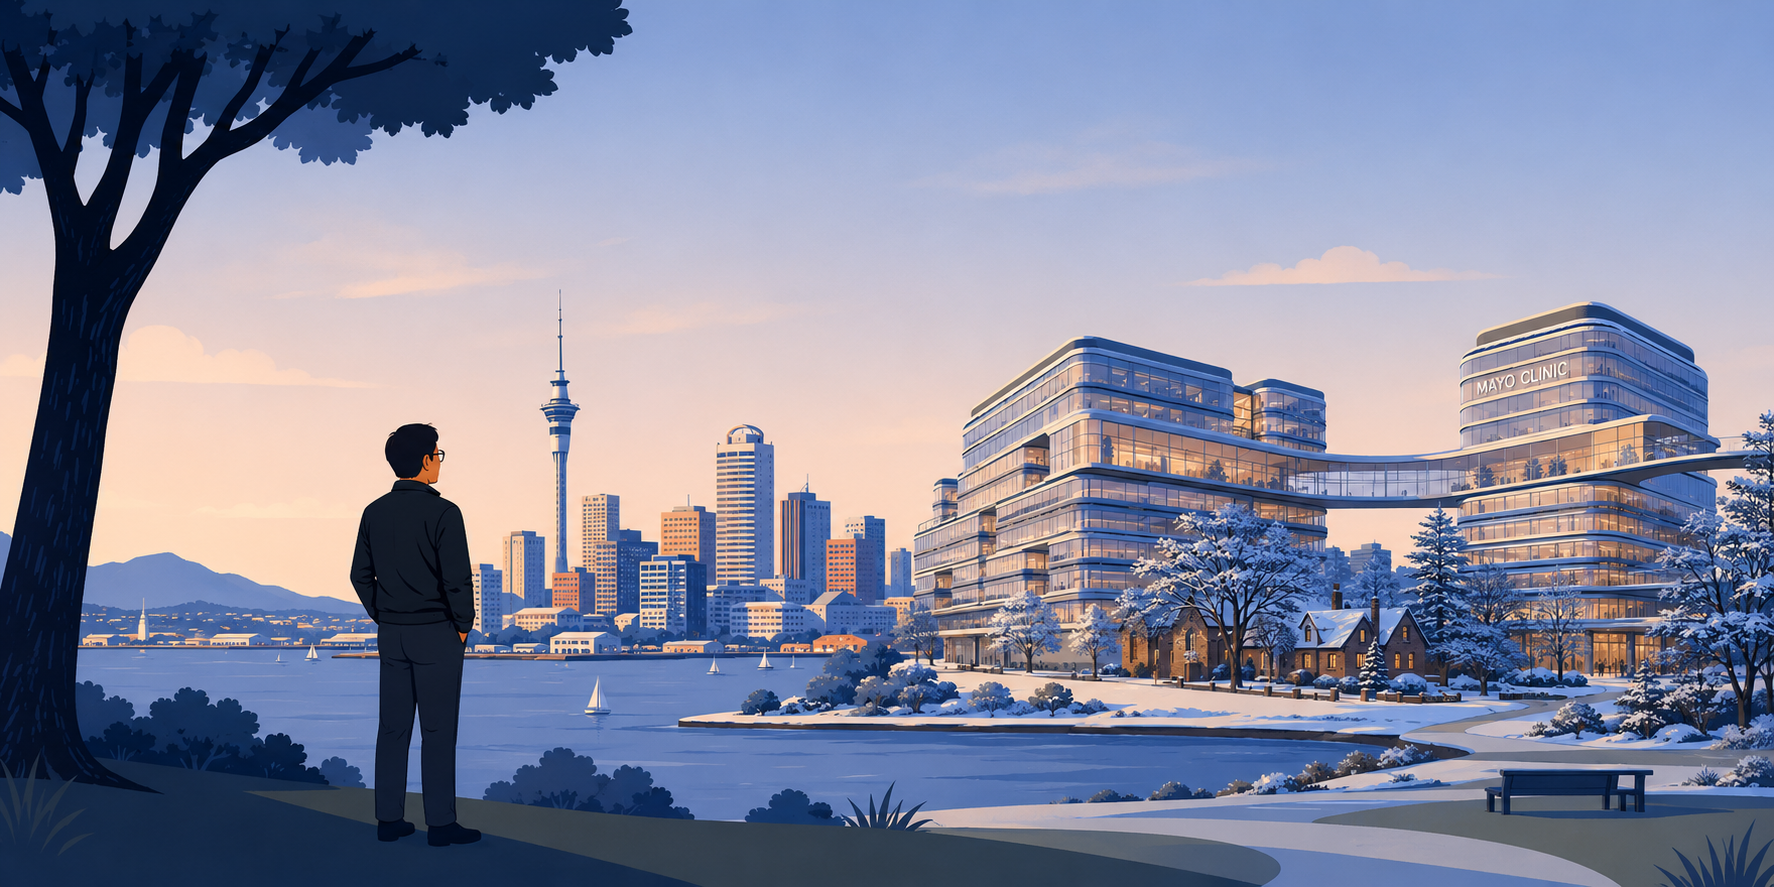
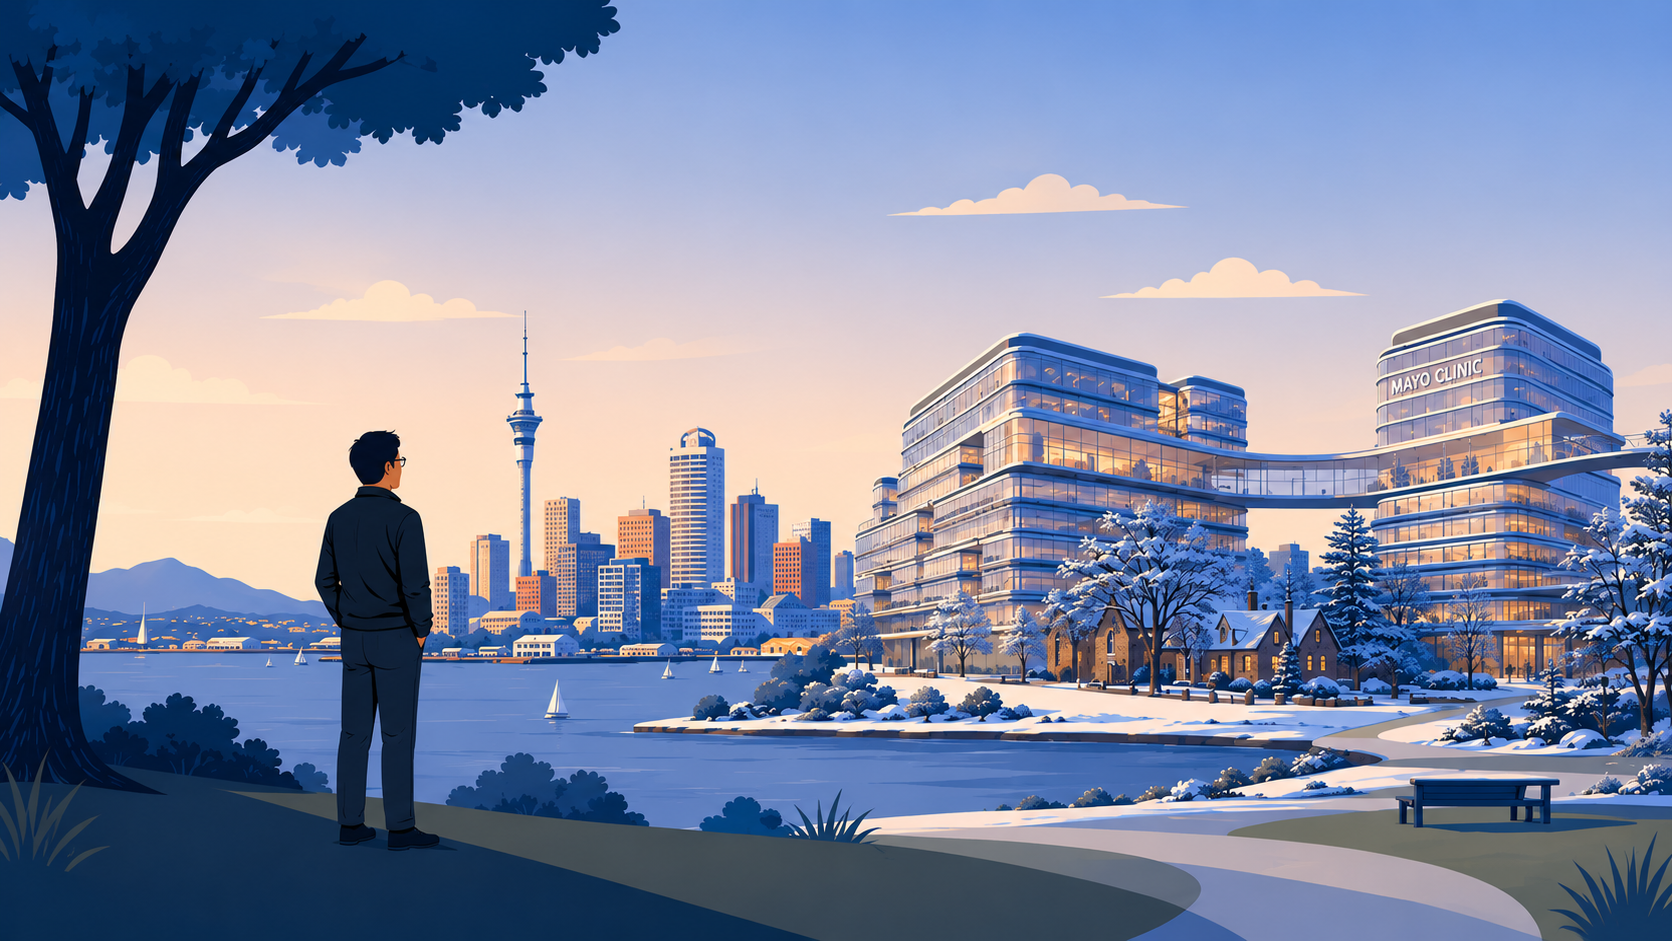
update image

diff --git a/README.md b/README.md
@@ -6,7 +6,7 @@ Small Quarto academic website with:
 - `research.qmd` — research themes for organizing publications
 - `_quarto.yml` — site navigation, including an external Google Scholar tab
 - `styles.css` — white academic styling with the blue motif `#4273b5`
-- `assets/cover_3.png` — homepage cover image
+- `assets/auckland_mayo_vector.svg` — vector homepage cover image
 
 ## Local preview in Positron
 